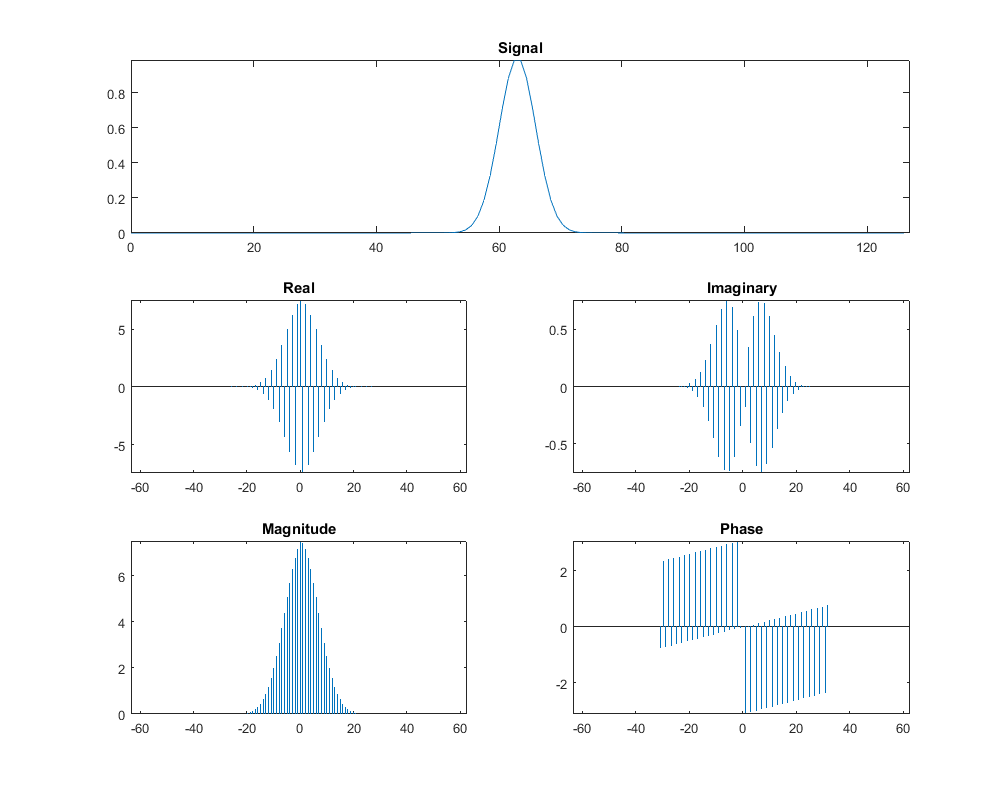
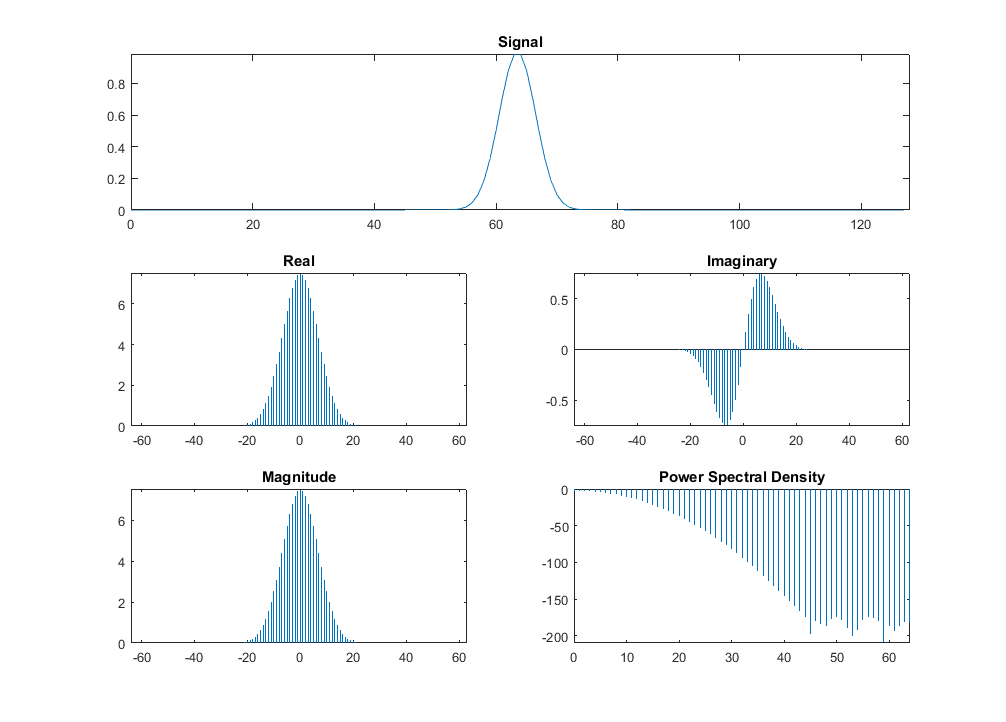
finished

diff --git a/FindTransferFunction.m b/FindTransferFunction.m
@@ -12,38 +12,72 @@ x0 = n - (N/2);
 
 figure
 
-subplot(2, 2, 1);
-stem(x0, input_signal, 'Marker', 'none');
-axis([x0(1), x0(end), -inf, inf])
+fig_width = 2;
+fig_height = 4;
+fig_i = 1;
+
+subplot(fig_height, fig_width, fig_i);
+fig_i = fig_i + 1;
+stem(n, input_signal, 'Marker', 'none');
+axis([0, N, -inf, inf])
 title('Input f(t)');
 
-subplot(2, 2, 2);
-stem(x0, output_signal, 'Marker', 'none');
-axis([x0(1), x0(end), -inf, inf])
+subplot(fig_height, fig_width, fig_i);
+fig_i = fig_i + 1;
+stem(n, output_signal, 'Marker', 'none');
+axis([0, N, -inf, inf])
 title('Output g(t)');
 
 % Get Fourier transform of input
-f_in = fft(input_signal);
+f_in = fft(ifftshift(input_signal));
+
+subplot(fig_height, fig_width, fig_i);
+fig_i = fig_i + 1;
+stem(x0, real(fftshift(f_in)), 'Marker', 'none');
+axis([x0(1), x0(end), -inf, inf])
+title('Input F(h) real');
 
 % Get Fourier transform of output
-f_out = fft(output_signal);
+f_out = fft(ifftshift(output_signal));
 
-% Divide F(output) by F(input) to get F(h) (or H)
-f_h = rdivide(f_out, f_in);
+subplot(fig_height, fig_width, fig_i);
+fig_i = fig_i + 1;
+stem(x0, real(fftshift(f_out)), 'Marker', 'none');
+axis([x0(1), x0(end), -inf, inf])
+title('Output G(h) real');
+
+% Divide G(h) by F(h) to get F(h) (or H)
+f_h = zeros(1, N);
+for i = 1:N
+    f_h(i) = 0 + 0i;
+    if f_in(i) ~= 0
+        f_h(i) = f_out(i) / f_in(i);
+    end
+end
 
 % Plot magnitude of F(h)
-mag_f_h = abs(f_h);
-subplot(2, 2, 3);
+mag_f_h = abs(fftshift(f_h));
+subplot(fig_height, fig_width, fig_i);
+fig_i = fig_i + 1;
 stem(x0, mag_f_h, 'Marker', 'none');
 axis([x0(1), x0(end), -inf, inf])
 title('H(u) Magnitude');
 
 % Get inverse Fourier transform of H
-h = ifft(f_h);
-subplot(2, 2, 4);
-stem(x0, h, 'Marker', 'none');
-axis([x0(1), x0(end), -inf, inf])
+h = ifftshift(ifft(f_h));
+subplot(fig_height, fig_width, fig_i);
+fig_i = fig_i + 1;
+stem(n, h, 'Marker', 'none');
+axis([n(1), n(end), -inf, inf])
 title('h(t)');
+
+% Convolve input and h to see if it matches output
+g = conv(input_signal, h, 'same');
+subplot(fig_height, fig_width, fig_i);
+fig_i = fig_i + 1;
+stem(n, g, 'Marker', 'none');
+axis([n(1), n(end), -inf, inf])
+title('g(t) estimated');
 
 end
 

diff --git a/FourierPlotPower.m b/FourierPlotPower.m
@@ -1,5 +1,7 @@
-function [ f_signal ] = FourierPlot( signal, t_min, t_max )
-%FOURIERPLOT Plot Fourier Transform of signal from t_min to t_max.
+function [ output_args ] = FourierPlotPower( signal, t_min, t_max )
+%FOURIERPLOTPOWER Summary of this function goes here
+%   Detailed explanation goes here
+
 
 N = length(signal);
 
@@ -32,17 +34,19 @@ linkaxes([real_plot, imag_plot], 'xy')
 
 magnitude = abs(f_signal);
 
-threshold = 1e-4;
-sig_mag = magnitude > threshold;
-phase_sig = times(f_signal, sig_mag);
-phase = angle(phase_sig);
-
 subplot(3, 2, 5)
 stem(x0, magnitude, 'Marker', 'none')
 axis([x0(1), x0(end), -inf, inf])
 title('Magnitude')
 
+Pxx = f_signal.*conj(f_signal) / N;
+Pxx = Pxx(N/2:N);
+px0 = 0:N/2;
+
 subplot(3, 2, 6)
-stem(x0, phase, 'Marker', 'none')
-axis([x0(1), x0(end), -inf, inf])
-title('Phase')
+stem(px0, 10*log10(Pxx), 'Marker', 'none');
+axis([px0(1), px0(end), -inf, inf])
+title('Power Spectral Density')
+
+end
+

diff --git a/FourierFreqAnalysis.m b/FourierFreqAnalysis.m
@@ -17,7 +17,7 @@ magnitude = abs(f_signal);
 M = zeros(1, maxCount);
 for t = 1:maxCount
     [~, i] = max(magnitude);
-    M(t) = i;
+    M(t) = i - 1;
     magnitude(i) = 0; 
 end
 
